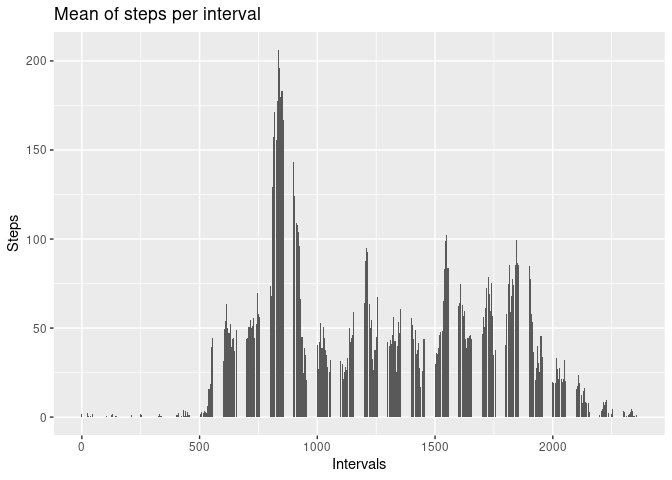
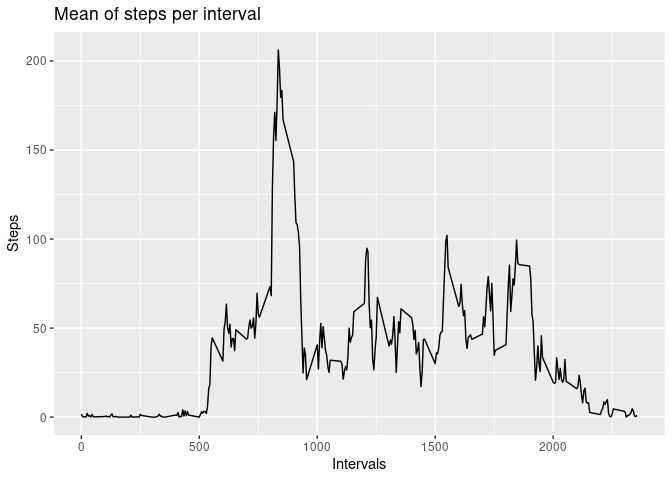
change figure from col to line, better looking

Changed region(s): [[0.125, 0.125, 0.9688, 0.875]]

diff --git a/PA1_template.html b/PA1_template.html
@@ -482,12 +482,12 @@ summary(avg_by_interval)</code></pre>
 <h3>Plot sum steps by interval</h3>
 <p>Let’s plot this data in a time series plot</p>
 <pre class="r"><code>p &lt;- ggplot(avg_by_interval, aes(x=interval,y=avg_steps) ) 
-p &lt;- p + geom_col()
+p &lt;- p + geom_line()
 p &lt;- p + xlab(&quot;Intervals&quot;) + ylab(&quot;Steps&quot;) 
 p &lt;- p + ggtitle(&quot;Mean of steps per interval&quot;) 
 
 print(p)</code></pre>
[2 lines of base64/hex data omitted]
 </div>
 <div id="maximum" class="section level3">
 <h3>Maximum</h3>

diff --git a/PA1_template.md b/PA1_template.md
@@ -183,7 +183,7 @@ Let's plot this data in a time series plot
 
 ```r
 p <- ggplot(avg_by_interval, aes(x=interval,y=avg_steps) ) 
-p <- p + geom_col()
+p <- p + geom_line()
 p <- p + xlab("Intervals") + ylab("Steps") 
 p <- p + ggtitle("Mean of steps per interval") 
 
